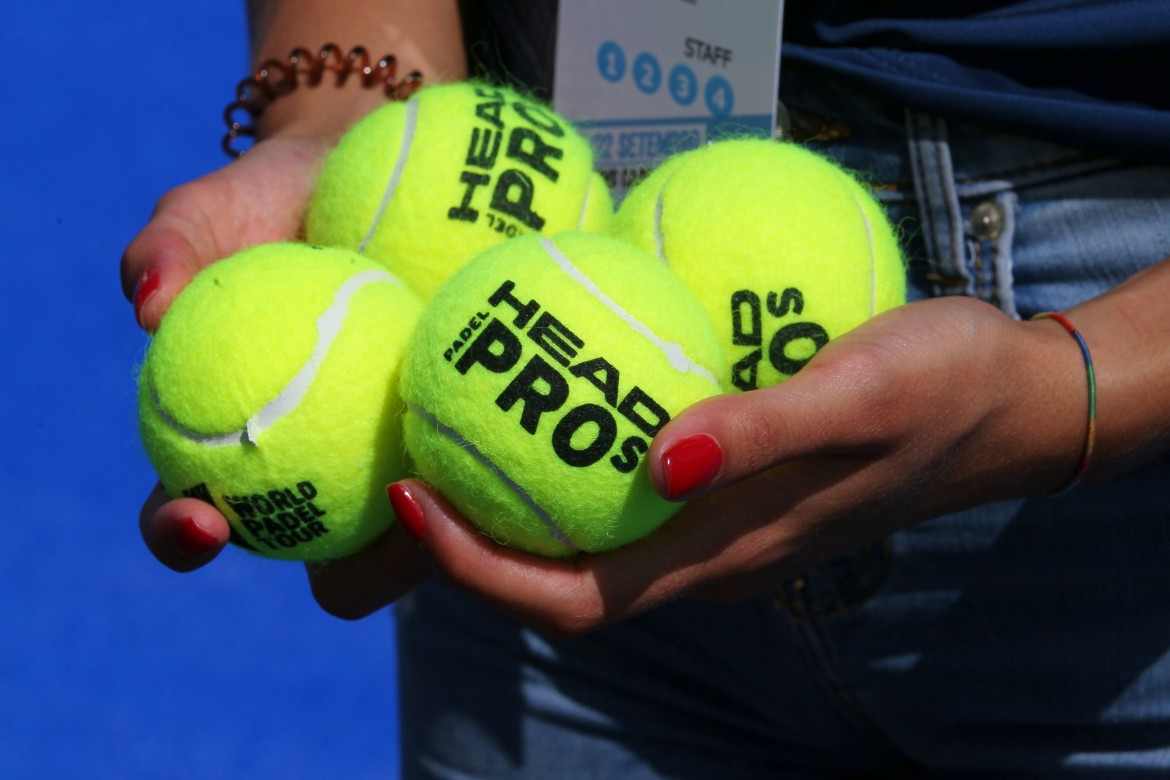
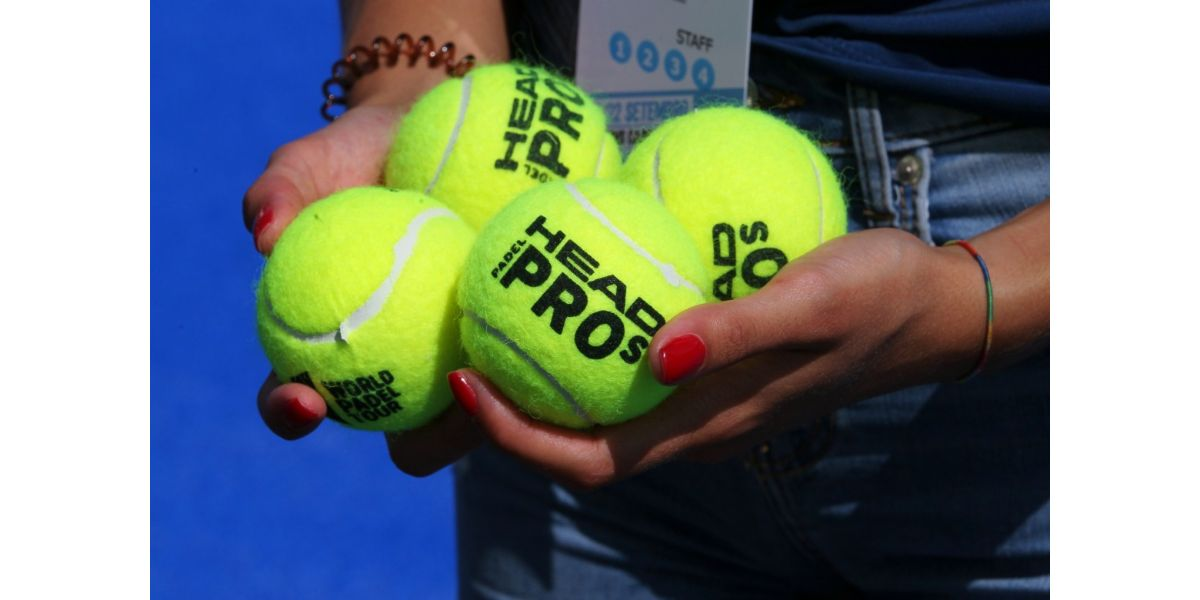
se arreglaron imagenes

diff --git a/shop.html b/shop.html
@@ -39,41 +39,44 @@
             </div>
           </div>
         </nav>
-        <section class="container">
-            <br>
-            <h1>Consegui todo lo necesario para jugar como un profesional</h1>
-            <h3>Raquetas</h3>
-            <section class="tarjetas">
-              <div class="card" style="width: 18rem;">
-                <img src="Imagenes/raqueta1.jpg" class="card-img-top" alt="...">
-                <div class="card-body">
-                  <p class="card-text">Fibra de carbono</p>
-                </div>
-              </div>
-              <div class="card" style="width: 18rem;">
-              <img src="Imagenes/raqueta2.jpg" class="card-img-top" alt="...">
+        <div class="row row-cols-1 row-cols-md-2 g-4">
+          <div class="col">
+            <div class="card">
+              <img src="Imagenes/raqueta1.jpg" class="card-img-top" alt="raqueta padel zammer">
               <div class="card-body">
-                <p class="card-text">PVC</p>
+                <h5 class="card-title">Raqueta Avanzado</h5>
+                <p class="card-text">Esta es la recomendacion para aquellos que tienen mas experiencia en el deporte</p>
               </div>
+            </div>
+          </div>
+          <div class="col">
+            <div class="card">
+              <img src="Imagenes/raqueta2.jpg" class="card-img-top" alt="raqueta padel zammer">
+              <div class="card-body">
+                <h5 class="card-title">Raqueta Principiante</h5>
+                <p class="card-text">Esta raqueta es ideal para aquellos que se inician en el deporte</p>
               </div>
-            </section>
-            <h3>Calzado</h3>
-            <section class="tarjetas">
-                <div class="card" style="width: 18rem;">
-                  <img src="Imagenes/zapatillas1.jpeg" class="card-img-top" alt="...">
-                  <div class="card-body">
-                    <p class="card-text">Aerodinamicas</p>
-                  </div>
-                </div>
-                <div class="card" style="width: 18rem;">
-                <img src="Imagenes/zapatillas2.jpeg" class="card-img-top" alt="...">
-                <div class="card-body">
-                  <p class="card-text">Aeroventilas</p>
-                </div>
-                </div>
-            </section>
-            <br>
-        </section>
+            </div>
+          </div>
+          <div class="col">
+            <div class="card">
+              <img src="Imagenes/zapatillas1.jpg" class="card-img-top" alt="zammer padel zapatillas">
+              <div class="card-body">
+                <h5 class="card-title">Zapatillas de torneo</h5>
+                <p class="card-text">Cuando quieras jugar partidos oficiales, esta son tus zapatillas!!</p>
+              </div>
+            </div>
+          </div>
+          <div class="col">
+            <div class="card">
+              <img src="Imagenes/zapatillas2.jpg" class="card-img-top" alt="...">
+              <div class="card-body">
+                <h5 class="card-title">Zapatillas de entrenamiento</h5>
+                <p class="card-text">Ideales para el entrenamiento diario</p>
+              </div>
+            </div>
+          </div>
+        </div>
         <br>
         <footer class="footer">
             <h4>Donde encontrarnos?</h4>

diff --git a/scss/estiloSass.scss b/scss/estiloSass.scss
@@ -26,8 +26,7 @@
     justify-content: space-evenly;
     background: rgb(36,0,8);
     background: linear-gradient(90deg, rgba(36,0,8,1) 0%, rgba(83,85,83,1) 0%, rgba(134,135,135,1) 30%, rgba(207,205,205,1) 100%, rgba(249,249,249,1) 100%);
-    height: 100%;
-    font-size: x-small;
+    font-size: xx-small;
     font-style: italic;
     font-family: 'Roboto', sans-serif;
     color: black;
@@ -35,7 +34,9 @@
 
 .canchas{
     display: flex;
+    flex-wrap: wrap;
     flex-direction: column;
+    align-items: center;
     align-items: center;
 
 }
@@ -97,6 +98,9 @@ h1{ @include titulosPrimarios();
 
 .sedes{
     display: flex;
+    flex-direction: row;
     justify-content: space-between;
 }
+
+
 

diff --git a/canchas.html b/canchas.html
@@ -41,8 +41,8 @@
             </nav>
             <h1 class="descripcion">Conoce nuestras canchas:</h1>
             <section class="canchas">
-                <div><img src="Imagenes/cancha1.jpg" alt=""></div>
-                <div><img src="Imagenes/cancha2.jpg" alt=""></div>
+                <div><img src="Imagenes/cancha1.jpg" class="img-fluid" alt="cancha Padel zammer"></div>
+                <div><img src="Imagenes/cancha2.jpg" class="img-fluid" alt="cancha Padel zammer"></div>
             </section>
             <footer class="footer">
                 <h4>Donde encontrarnos?</h4>

diff --git a/css/estilo.css b/css/estilo.css
@@ -23,15 +23,16 @@
   justify-content: space-evenly;
   background: #240008;
   background: linear-gradient(90deg, #240008 0%, #535553 0%, #868787 30%, #cfcdcd 100%, #f9f9f9 100%);
-  height: 100%;
-  font-size: x-small;
+  font-size: xx-small;
   font-style: italic;
   font-family: 'Roboto', sans-serif;
   color: black; }
 
 .canchas {
   display: flex;
+  flex-wrap: wrap;
   flex-direction: column;
+  align-items: center;
   align-items: center; }
 
 .banner {
@@ -72,4 +73,5 @@ h1 {
 
 .sedes {
   display: flex;
+  flex-direction: row;
   justify-content: space-between; }
